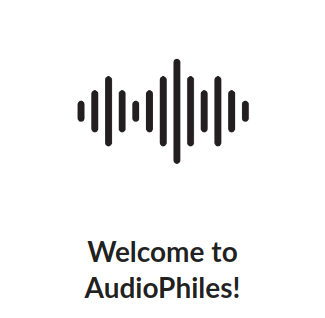
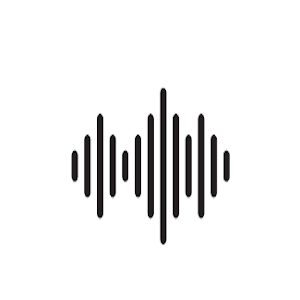
added colors

Changed region(s): [[0.21, 0.18, 0.78, 0.84], [0.24, 0.87, 0.75, 0.96]]

diff --git a/phil-site-front/src/containers/HomeContainer.js b/phil-site-front/src/containers/HomeContainer.js
@@ -1,15 +1,20 @@
 /*eslint-disable */
 import React from "react"
-import { Image, Segment, Header, Icon, Grid, List } from "semantic-ui-react"
+import { Image, Segment, Header, Icon, Grid, List, Container } from "semantic-ui-react"
 import { Link } from "react-router-dom"
 
 const HomeContainer = props => {
   const { links, profPic, hexColors } = props
-  const { color1, color2, color3, color4, color5 } = hexColors
-  const styleSegment = { backgroundColor: {color5}, margin: "0% 5%" }
+  // const { c1, c2, c3, c4, c5 } = hexColors
+  // c1: '#ffffff',
+  // c2: '#e4eaf3',
+  // c3: '#efe9e5',
+  // c4: '#c6aa99',
+  // c5: '#3a3836',
+  const styleCont = { margin: "10% 5%" }
   return (
     <div className="home-container">
-      <Segment raised rounded style={styleSegment}>
+      <Container fluid style={styleCont}>
         <Image
           src={profPic}
           circular
@@ -21,10 +26,10 @@ const HomeContainer = props => {
         <Header as="h1" textAlign="center">
           Phil Roth
         </Header>
-        <Header as="h2" textAlign="center">
-          Software Engineer
+        <Header as="h4" textAlign="center">
+        Software Engineer, Ruby, JavaScript, Linux.
         </Header>
-      </Segment>
+      </Container>
       <Grid style={{ margin: "0% 10%" }}>
         <Grid.Row columns={3}>
           <Grid.Column width="10">
@@ -69,12 +74,21 @@ const HomeContainer = props => {
                 <Icon name="linkedin" size="big" />
                 LinkedIn
               </List.Item>
+              {/* <List.Item as="a" href={links.soundcloud}>
+                <Icon name="soundcloud" size="big" />
+                SoundCloud
+              </List.Item> */}
               <List.Item as="a" href={links.gmail}>
                 <Icon name="mail" size="big" />
                 Email
               </List.Item>
-              <List.Item as='a' href='https://drive.google.com/open?id=1Zg42il292S7Dfs-DptOXzJd_yOi5bg5Z' download>
-                <Icon name='paperclip' size='big' />
+
+              <List.Item
+                as="a"
+                href="https://drive.google.com/open?id=1Zg42il292S7Dfs-DptOXzJd_yOi5bg5Z"
+                download
+              >
+                <Icon name="paperclip" size="big" />
                 Resume
               </List.Item>
             </List>

diff --git a/phil-site-front/src/components/ProjectCard.js b/phil-site-front/src/components/ProjectCard.js
@@ -1,6 +1,6 @@
 /*eslint-disable */
 import React from "react"
-import { Image, Card } from "semantic-ui-react"
+import { Image, Card, Header } from "semantic-ui-react"
 
 const ProjectCard = props => {
   const {
@@ -27,7 +27,7 @@ const ProjectCard = props => {
   let cardLinks
   if (!!isSplit && !!isLive) {
     cardLinks = (
-      <Card.Meta>
+      <Card.Meta textAlign='center'>
         {frontLink}
         {" | "}
         {backLink}
@@ -37,7 +37,7 @@ const ProjectCard = props => {
     )
   } else if (!!isSplit && !isLive) {
     cardLinks = (
-      <Card.Meta>
+      <Card.Meta textAlign='center'>
         {frontLink}
         {" | "}
         {backLink}
@@ -47,7 +47,7 @@ const ProjectCard = props => {
     )
   } else if (!isSplit && !!isLive) {
     cardLinks = (
-      <Card.Meta>
+      <Card.Meta textAlign='center'>
         {gitLink}
         {" | "}
         {liveAppLink}
@@ -55,7 +55,7 @@ const ProjectCard = props => {
     )
   } else if (!isSplit && !isLive) {
     cardLinks = (
-      <Card.Meta>
+      <Card.Meta textAlign='center'>
         {gitLink}
         {" | "}
         {liveDemoLink}
@@ -63,26 +63,26 @@ const ProjectCard = props => {
     )
   }
 
-  const styleCard = {}
-  const styleCardImage = {}
+  const styleCard = {width: '%', height: '%', backgroundColor: '#e4eaf3'}
+  // const styleCardImage = {width: '10%', height: '10%'}
   // const styleCard = {width: '600px', height: '600px'}
+  //? c1: '#ffffff',
+  //? c2: '#e4eaf3',
+  //? c3: '#efe9e5',
+  //? c4: '#c6aa99',
+  //? c5: '#3a3836',
+
   return (
     <Card raised style={styleCard} rounded>
       <Image
-        style={{ styleCardImage }}
-        // size='massive'
-        rounded
+        // style={{ styleCardImage }}
         className={`proj-${details.name}`}
-        fluid
-        // as="a"
-        // href={liveApp}
         src={pic}
         wrapped
-        ui={false}
+        ui={true}
       />
       <Card.Content>
-        <Card.Header>{details.name}</Card.Header>
-        {/* <Card.Meta>{cardLinks}</Card.Meta> */}
+        <Header as='h2' textAlign='center'>{details.name}</Header>
         {cardLinks}
         <Card.Description>{details.desc}</Card.Description>
       </Card.Content>

diff --git a/phil-site-front/src/components/Nav.js b/phil-site-front/src/components/Nav.js
@@ -8,21 +8,31 @@ class Nav extends Component {
     activeItem: ""
   }
 
+  componentDidMount() {
+    this.setState({activeItem: this.props.location.pathname.slice(1)})
+  }
+
   handleItemClick = (e, { name }) => {
     this.setState({ activeItem: name })
     this.props.history.push(`/${name}`)
   }
+
+  //? c1: '#ffffff',
+  //? c2: '#e4eaf3',
+  //? c3: '#efe9e5',
+  //? c4: '#c6aa99',
+  //? c5: '#3a3836',
 
   render() {
     const { activeItem } = this.state
     const styleNav = {
       height: "5%",
       fontFamily: "Courier New",
-      backgroundColor: '#efe9e5'
+      backgroundColor: "#3a3836"
     }
     const styleHome = {}
     return (
-      <Menu fixed="top" size="large" style={styleNav}>
+      <Menu fixed="top" size="large" style={styleNav} inverted>
         <Container>
           <Menu.Item
             as="a"
@@ -36,16 +46,7 @@ class Nav extends Component {
             Phil Roth
           </Menu.Item>
           <Menu.Item
-            as="a"
-            header
-            name="blog"
             position="right"
-            active={activeItem === "blog"}
-            onClick={this.handleItemClick}
-          >
-            Blog
-          </Menu.Item>
-          <Menu.Item
             as="a"
             header
             name="projects"
@@ -53,6 +54,15 @@ class Nav extends Component {
             onClick={this.handleItemClick}
           >
             Projects
+          </Menu.Item>
+          <Menu.Item
+            as="a"
+            header
+            name="blog"
+            active={activeItem === "blog"}
+            onClick={this.handleItemClick}
+          >
+            Blog
           </Menu.Item>
           {/* <Menu.Item
             as="a"

diff --git a/phil-site-front/src/containers/ProjectContainer.js b/phil-site-front/src/containers/ProjectContainer.js
@@ -3,9 +3,9 @@ import React from "react"
 import { Image, Icon, Card, Header } from "semantic-ui-react"
 import ProjectCard from "../components/ProjectCard"
 import retroJSPic from "../images/retroJS.png"
-// import audioPhilesPic from "../images/audioPhiles.png"
-const audioPhilesPic =
-  "https://library.kissclipart.com/20180919/pww/kissclipart-sound-wave-vector-clipart-sound-wave-79091298684b3993.png"
+import audioPhilesPic from "../images/audioPhiles.png"
+// const audioPhilesPic =
+//   "https://library.kissclipart.com/20180919/pww/kissclipart-sound-wave-vector-clipart-sound-wave-79091298684b3993.png"
 import teamLunchPic from "../images/teamLunchOne.png"
 
 const projectDetails = {

diff --git a/phil-site-front/src/containers/BlogContainer.js b/phil-site-front/src/containers/BlogContainer.js
@@ -27,6 +27,12 @@ const blogList = [
 const mappedBlogList = blogList.map(blog => {
   return <BlogCard blog={blog} />
 })
+// c1: '#ffffff',
+// c2: '#e4eaf3',
+// c3: '#efe9e5',
+// c4: '#c6aa99',
+// c5: '#3a3836',
+
 const styleList = {}
 const BlogContainer = () => {
   return (

diff --git a/phil-site-front/src/App.css b/phil-site-front/src/App.css
@@ -1,6 +1,6 @@
 body {
   font-family: 'Courier New', Courier, monospace;
-  background: #e4eaf3;
+  background: #efe9e5;
 }
 
 .App {
